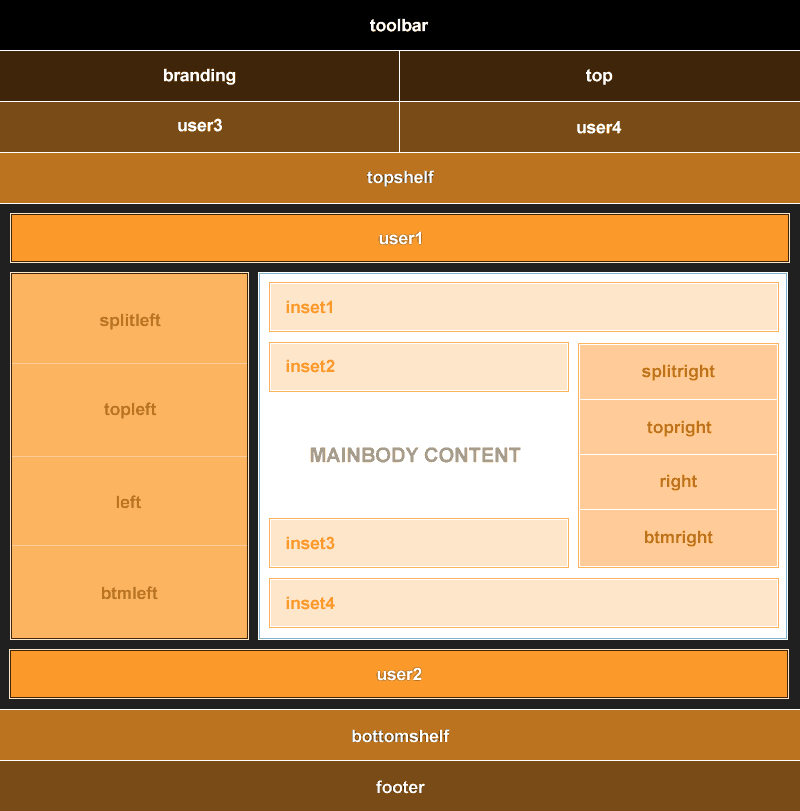
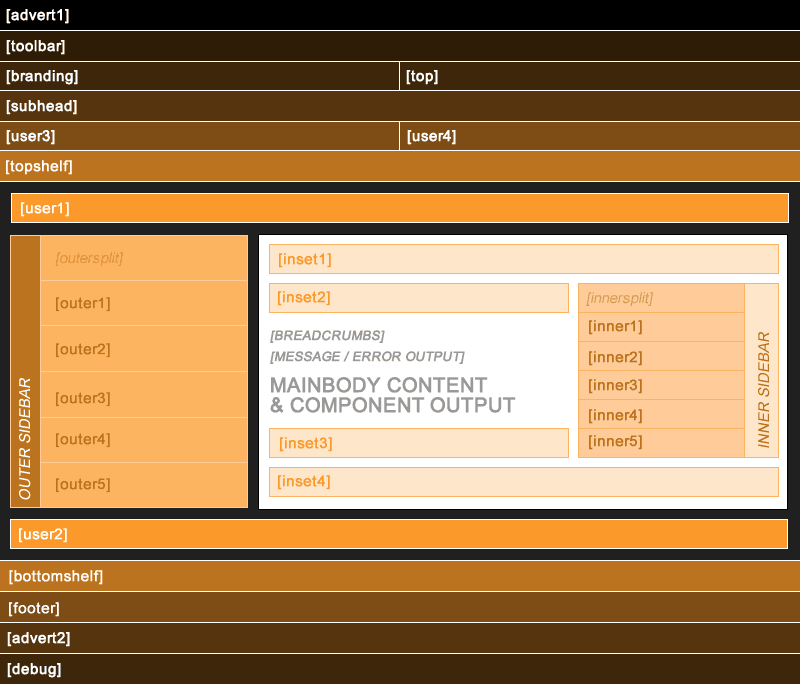
Updated the modules position reference with all various position name changes and other updates.

diff --git a/tooltips/visual-positions.html b/tooltips/visual-positions.html
@@ -1,1 +1,1 @@
-<img src="../administrator/components/com_configurator/images/visual-reference-positions.png" alt="Visual Reference - Blocks" height="608" width="600" style="margin:0; padding:0; text-align:center;" />
+<img src="../administrator/components/com_configurator/images/visual-reference-positions.png" alt="Visual Reference - Module Positions" height="684" width="800" style="margin:0; padding:0; text-align:center;" />

diff --git a/includes/layout/shelf.php b/includes/layout/shelf.php
@@ -93,9 +93,8 @@ setcookie('current_themelet', $params->get('themelet')); ?>
 			<h3>Quick reference guides <span>(<a href="#" title="" id="keyboard-toggle">Keyboard Shortcuts</a>)</span></h3>
 			<ul class="buttons">
 				<li><a class="info-link btn-link" href="gettingstarted.html" title="Configurator quick start guide">Quick Start</a></li>
-				<li><a class="modal-link-img btn-link" href="visual-blocks.html" title="Visual Reference: By Block">Block Map</a></li>
-				<li><a class="modal-link-img btn-link" href="visual-positions.html" title="Visual Reference: By Block">Position Map</a></li>
-				<li class="last"><a class="modal-link btn-link" href="troubleshooting.html" title="Morph troubleshooting guide">Troubleshooting</a></li>
+				<li><a class="modal-link-img btn-link" href="visual-blocks.html" title="Visual Reference: Building Blocks">Blocks Reference</a></li>
+				<li><a class="modal-link-img btn-link" href="visual-positions.html" title="Visual Reference: Module Positions">Module Positions</a></li>
 				<li><a class="modal-link btn-link" href="modfx.html" title="Getting started with ModuleFX">ModuleFX</a></li>
 				<li><a class="modal-link btn-link" href="pagefx.html" title="Getting started with PageFX">PageFX</a></li>
 				<li><a class="modal-link btn-link" href="menufx.html" title="Getting started with MenuFX">MenuFX</a></li>

diff --git a/js/functions.js.php b/js/functions.js.php
@@ -691,8 +691,8 @@ jQuery.noConflict();
 				autoOpen: true,
 				bgiframe: true,
 				modal: true,
-				width: 610,
-				height: 660,
+				width: 810,
+				height: 734,
 				title: $(this).attr('title'),
 				zIndex: 5001,
 				close: function(){
